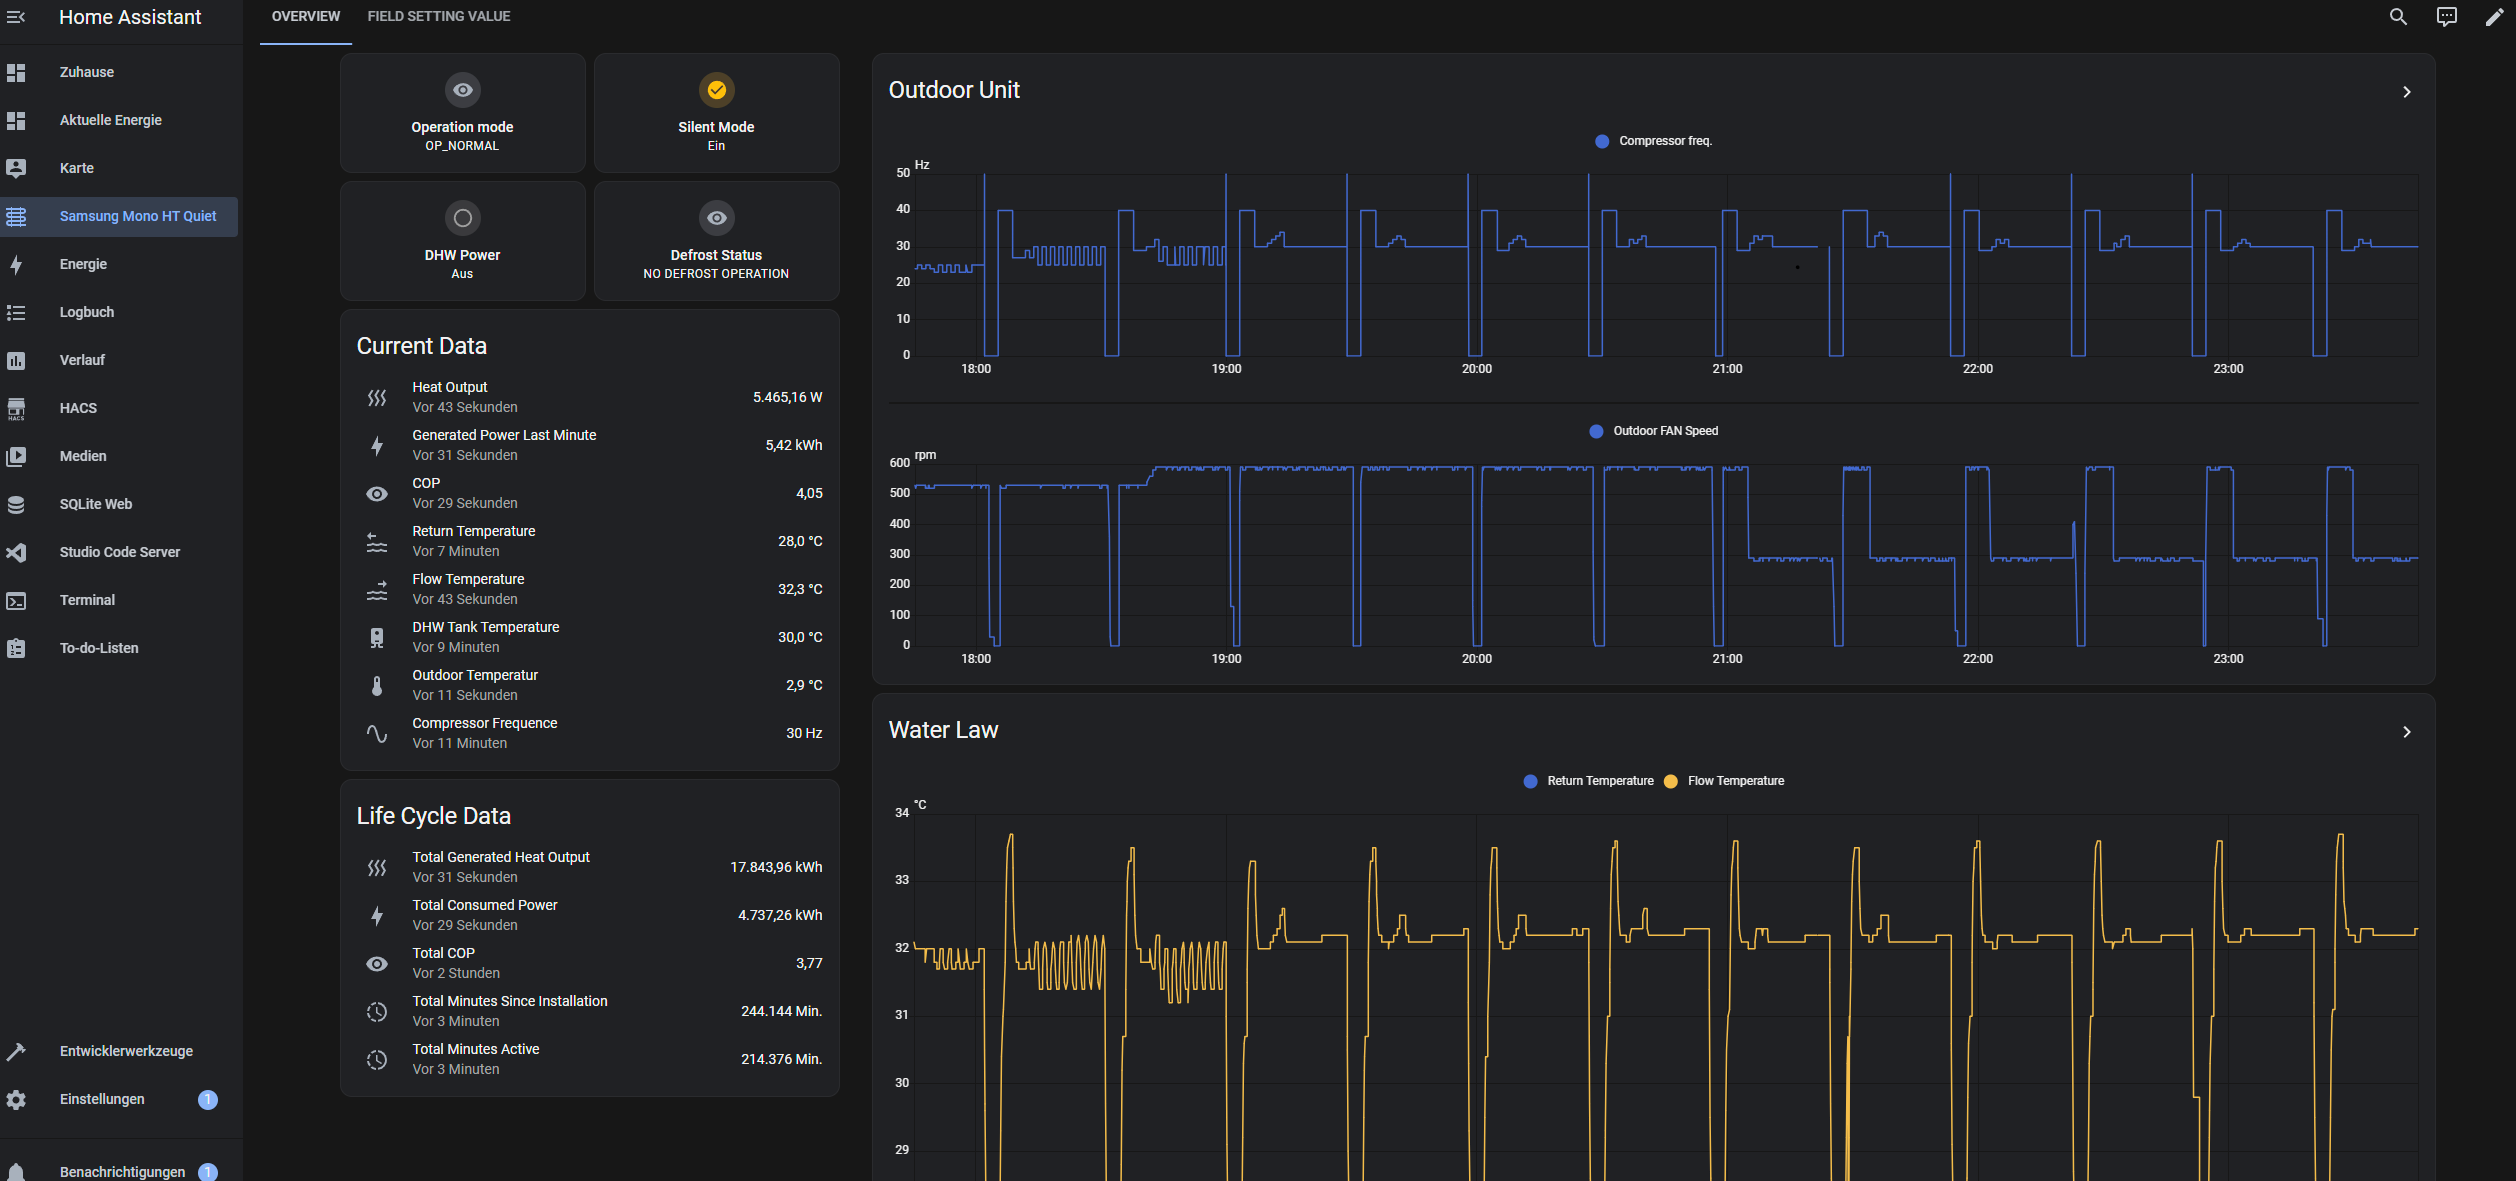
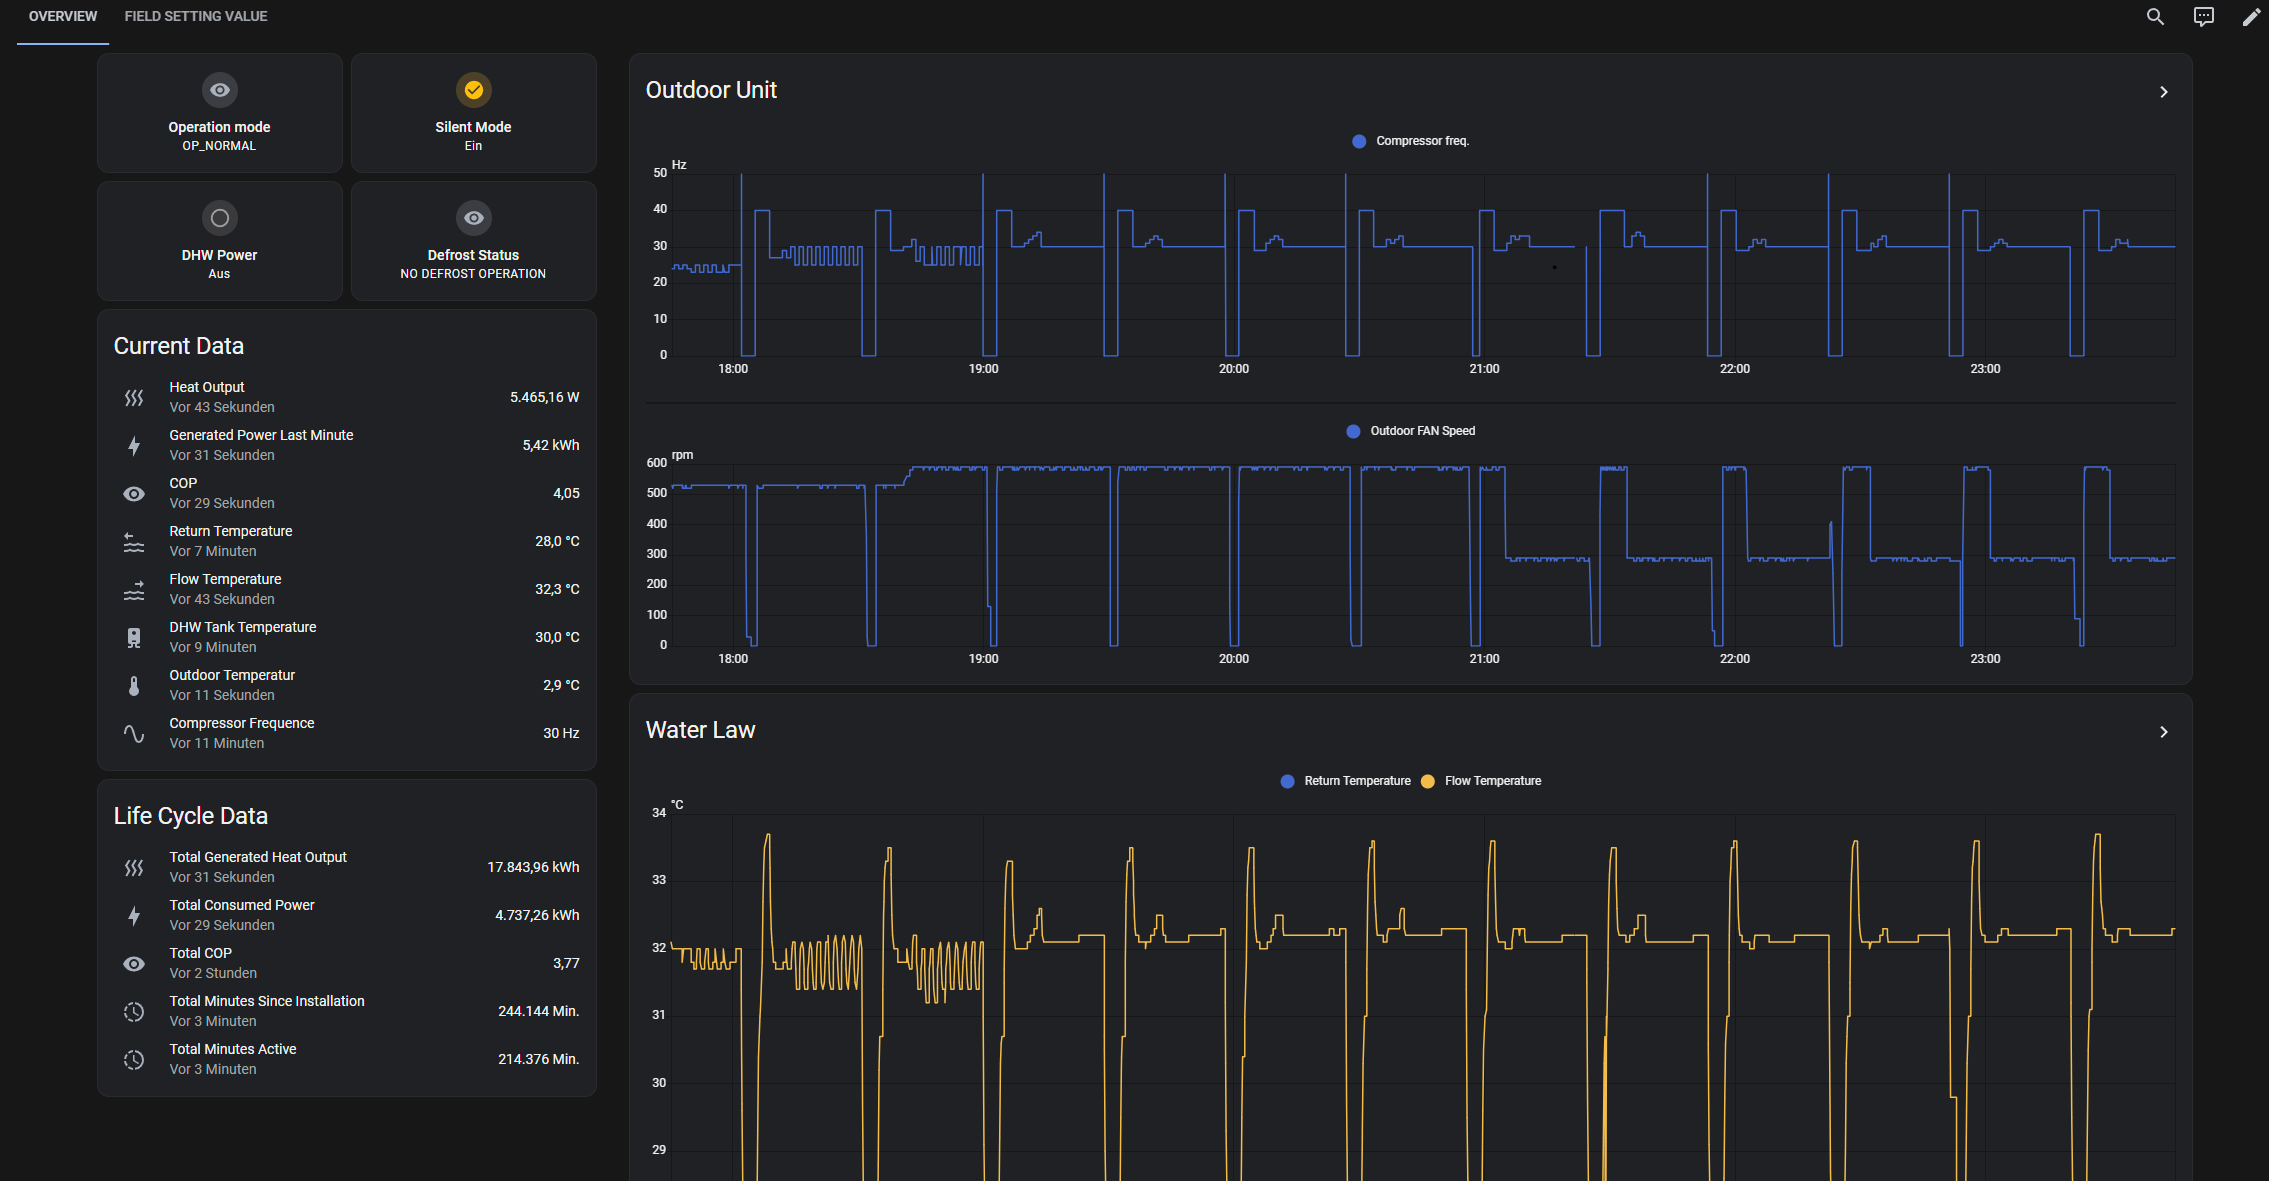
prepare for v1 release

diff --git a/README.md b/README.md
@@ -92,7 +92,9 @@ Some Distributions like debian 12 dont allow to use system wide pip package inst
 
    `ExecStart = <path to python3> <Path of the script you want to run>` <- provide here to path to your folder where startEHSSentinel.py is
 
-   sample: `ExecStart = /root/EHS-Sentinel/bin/python3 /root/EHS-Sentinel/startEHSSentinel.py --configfile /root/EHS-Sentinel/config.yml`
+   sample: `ExecStart = /root/EHS-Sentinel/bin/python3 /root/EHS-Sentinel/startEHSSentinel.py --configfile /root/EHS-Sentinel/config.yml --clean-known-devices`
+
+   I recommend to use `--clean-known-devices` on the start so EHS-Sentinel will send Configuration messages for HASS Autodiscovery after every startup.
 
 10. Change your `config.yml` to absolut paths:
    `nasaRepositoryFile: /root/EHS-Sentinel/data/NasaRepository.yml`
@@ -128,11 +130,23 @@ Control mode [ressources/dashboard_controlmode_template.yaml](ressources/dashboa
 
 If you have good ideas and want to extend this feel free to create an issue or pull request, thanks!
 
+## Read Only Mode
+
 ![alt text](ressources/images/dashboard1.png)
 
 ![alt text](ressources/images/dashboard2.png)
 
 ![alt text](ressources/images/dashboard3.png)
+
+
+## Control Mode
+
+![alt text](ressources/images/dashboard_cm1.png)
+
+![alt text](ressources/images/dashboard_cm2.png)
+
+![alt text](ressources/images/dashboard_cm3.png)
+
 
 # Configuration
 
@@ -188,6 +202,7 @@ The `config.yml` file contains configuration settings for the EHS-Sentinel proje
 - **allowControl**: Allows EHS-Sentinel to Control the Heatpump. HASS Entities are writable, EHS-Sentinel listents to set Topic and write published values to th Modbus Interface.
   The Set Topic have following pattern: <topicPrefix>/entity/<NASA_NAME>/set  sample: ehsSentinel/ENUM_IN_SG_READY_MODE_STATE/set
   - Default: `False`
+
   > [!CAUTION]  
   > This functionality requires that EHS-Sentinel actively communicates with
   > the  Samsung EHS, so EHS-Sentinel intervenes here in the Modbus data 
@@ -352,7 +367,7 @@ if you want to see how many uniquie Messages have been collected in the Dumpfile
 
 ### v1.0.0 - 2025-03-xx
 - EHS-Sentinel has been heavily modified to incorporate the control mechanism
-- The read-in behavior of the modbus registers has been revised from chunks to single bytes
+- The read-in behavior of the modbus registers has been revised from chunks to single byte
 - MessageProcessor now runs asynchronously
 - MessageProducer added which takes over the writing communication with the WP
 - Configuration of HASS entities has moved from hardcoded to NASA Repository
@@ -361,12 +376,14 @@ if you want to see how many uniquie Messages have been collected in the Dumpfile
   - NASA_OUTDOOR_DEFROST_STEP DEFROST STEP 10 (b'0xa') added
   - ENUM_IN_SG_READY_MODE_STATE ACTIVE (b'0x2') added
 - New configuration point allowControl to allow control of the HES heat pump (deactivated by default).
+
   > [!CAUTION]  
   > This functionality requires that EHS-Sentinel actively communicates with
   > the  Samsung EHS, so EHS-Sentinel intervenes here in the Modbus data 
   > traffic between the components (it sends its own messages). 
   > The activation of this functionality is exclusively at your own risk. 
   > I assume no liability for any damage caused.
+
 - new configuration points in logging
   - controlMessage (default False) to pr9int out the controlled mesagges
   - invalidPacket (default False) prints out invalid messages (length not ok, x34 not at end...)
